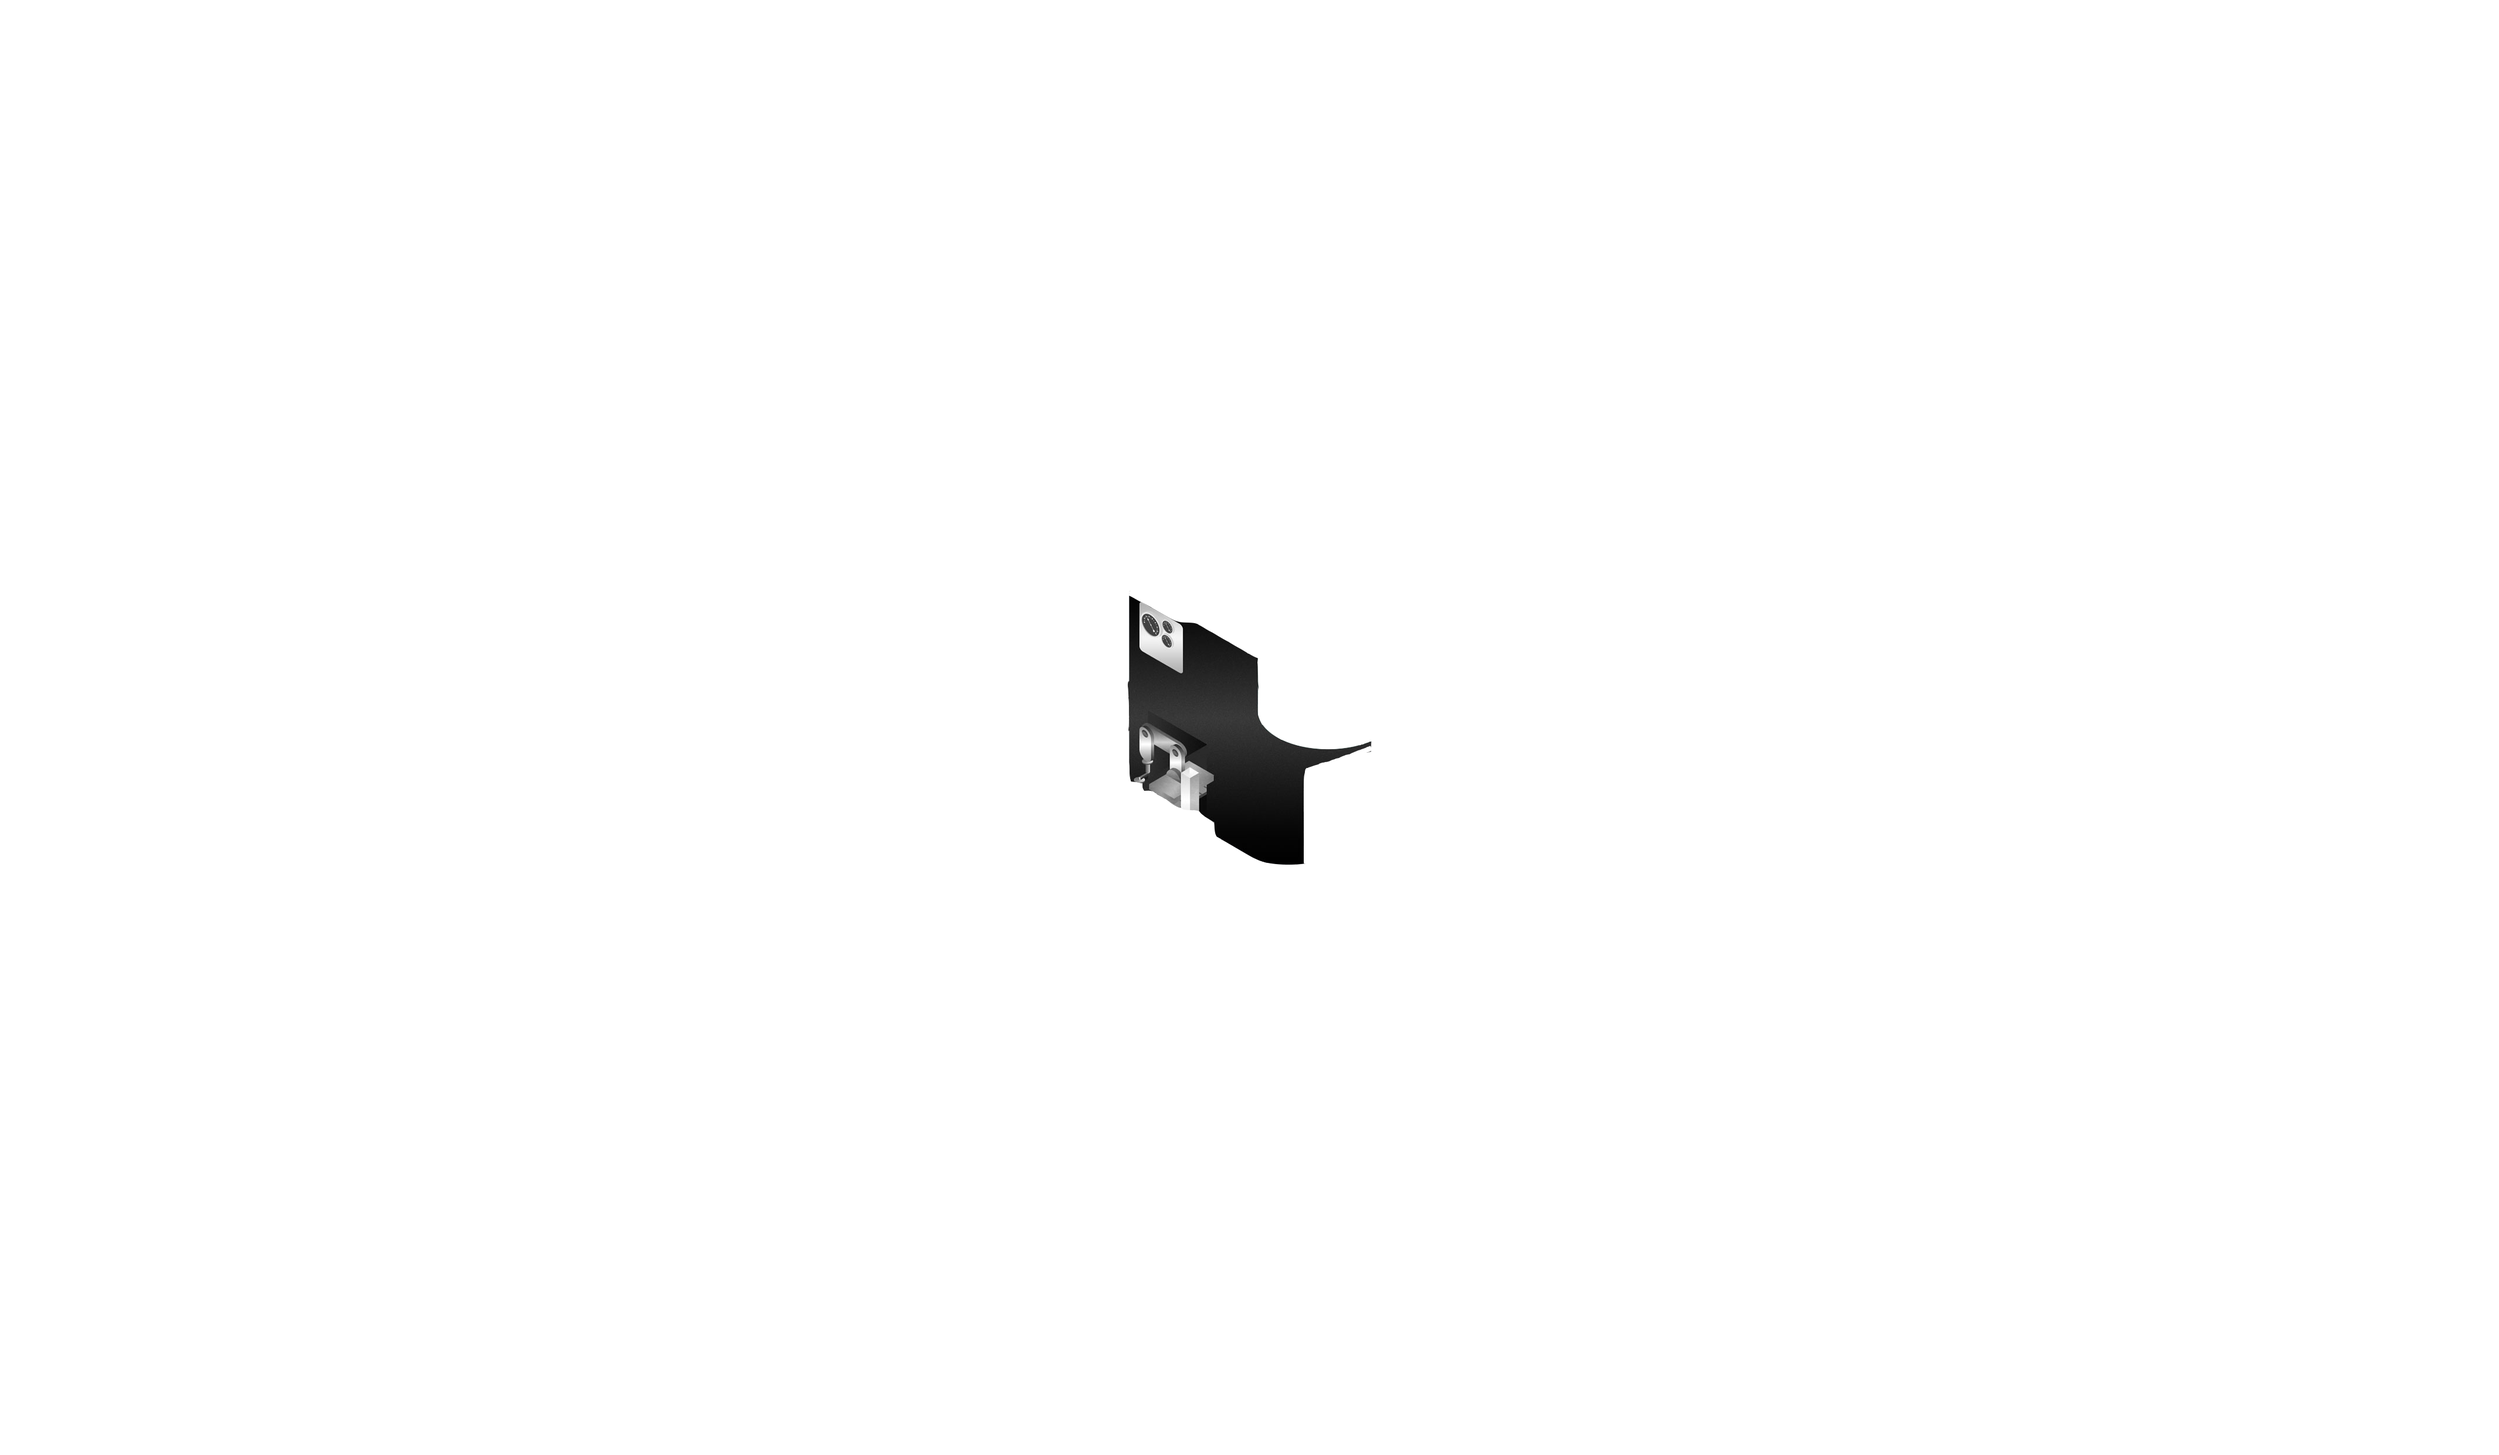
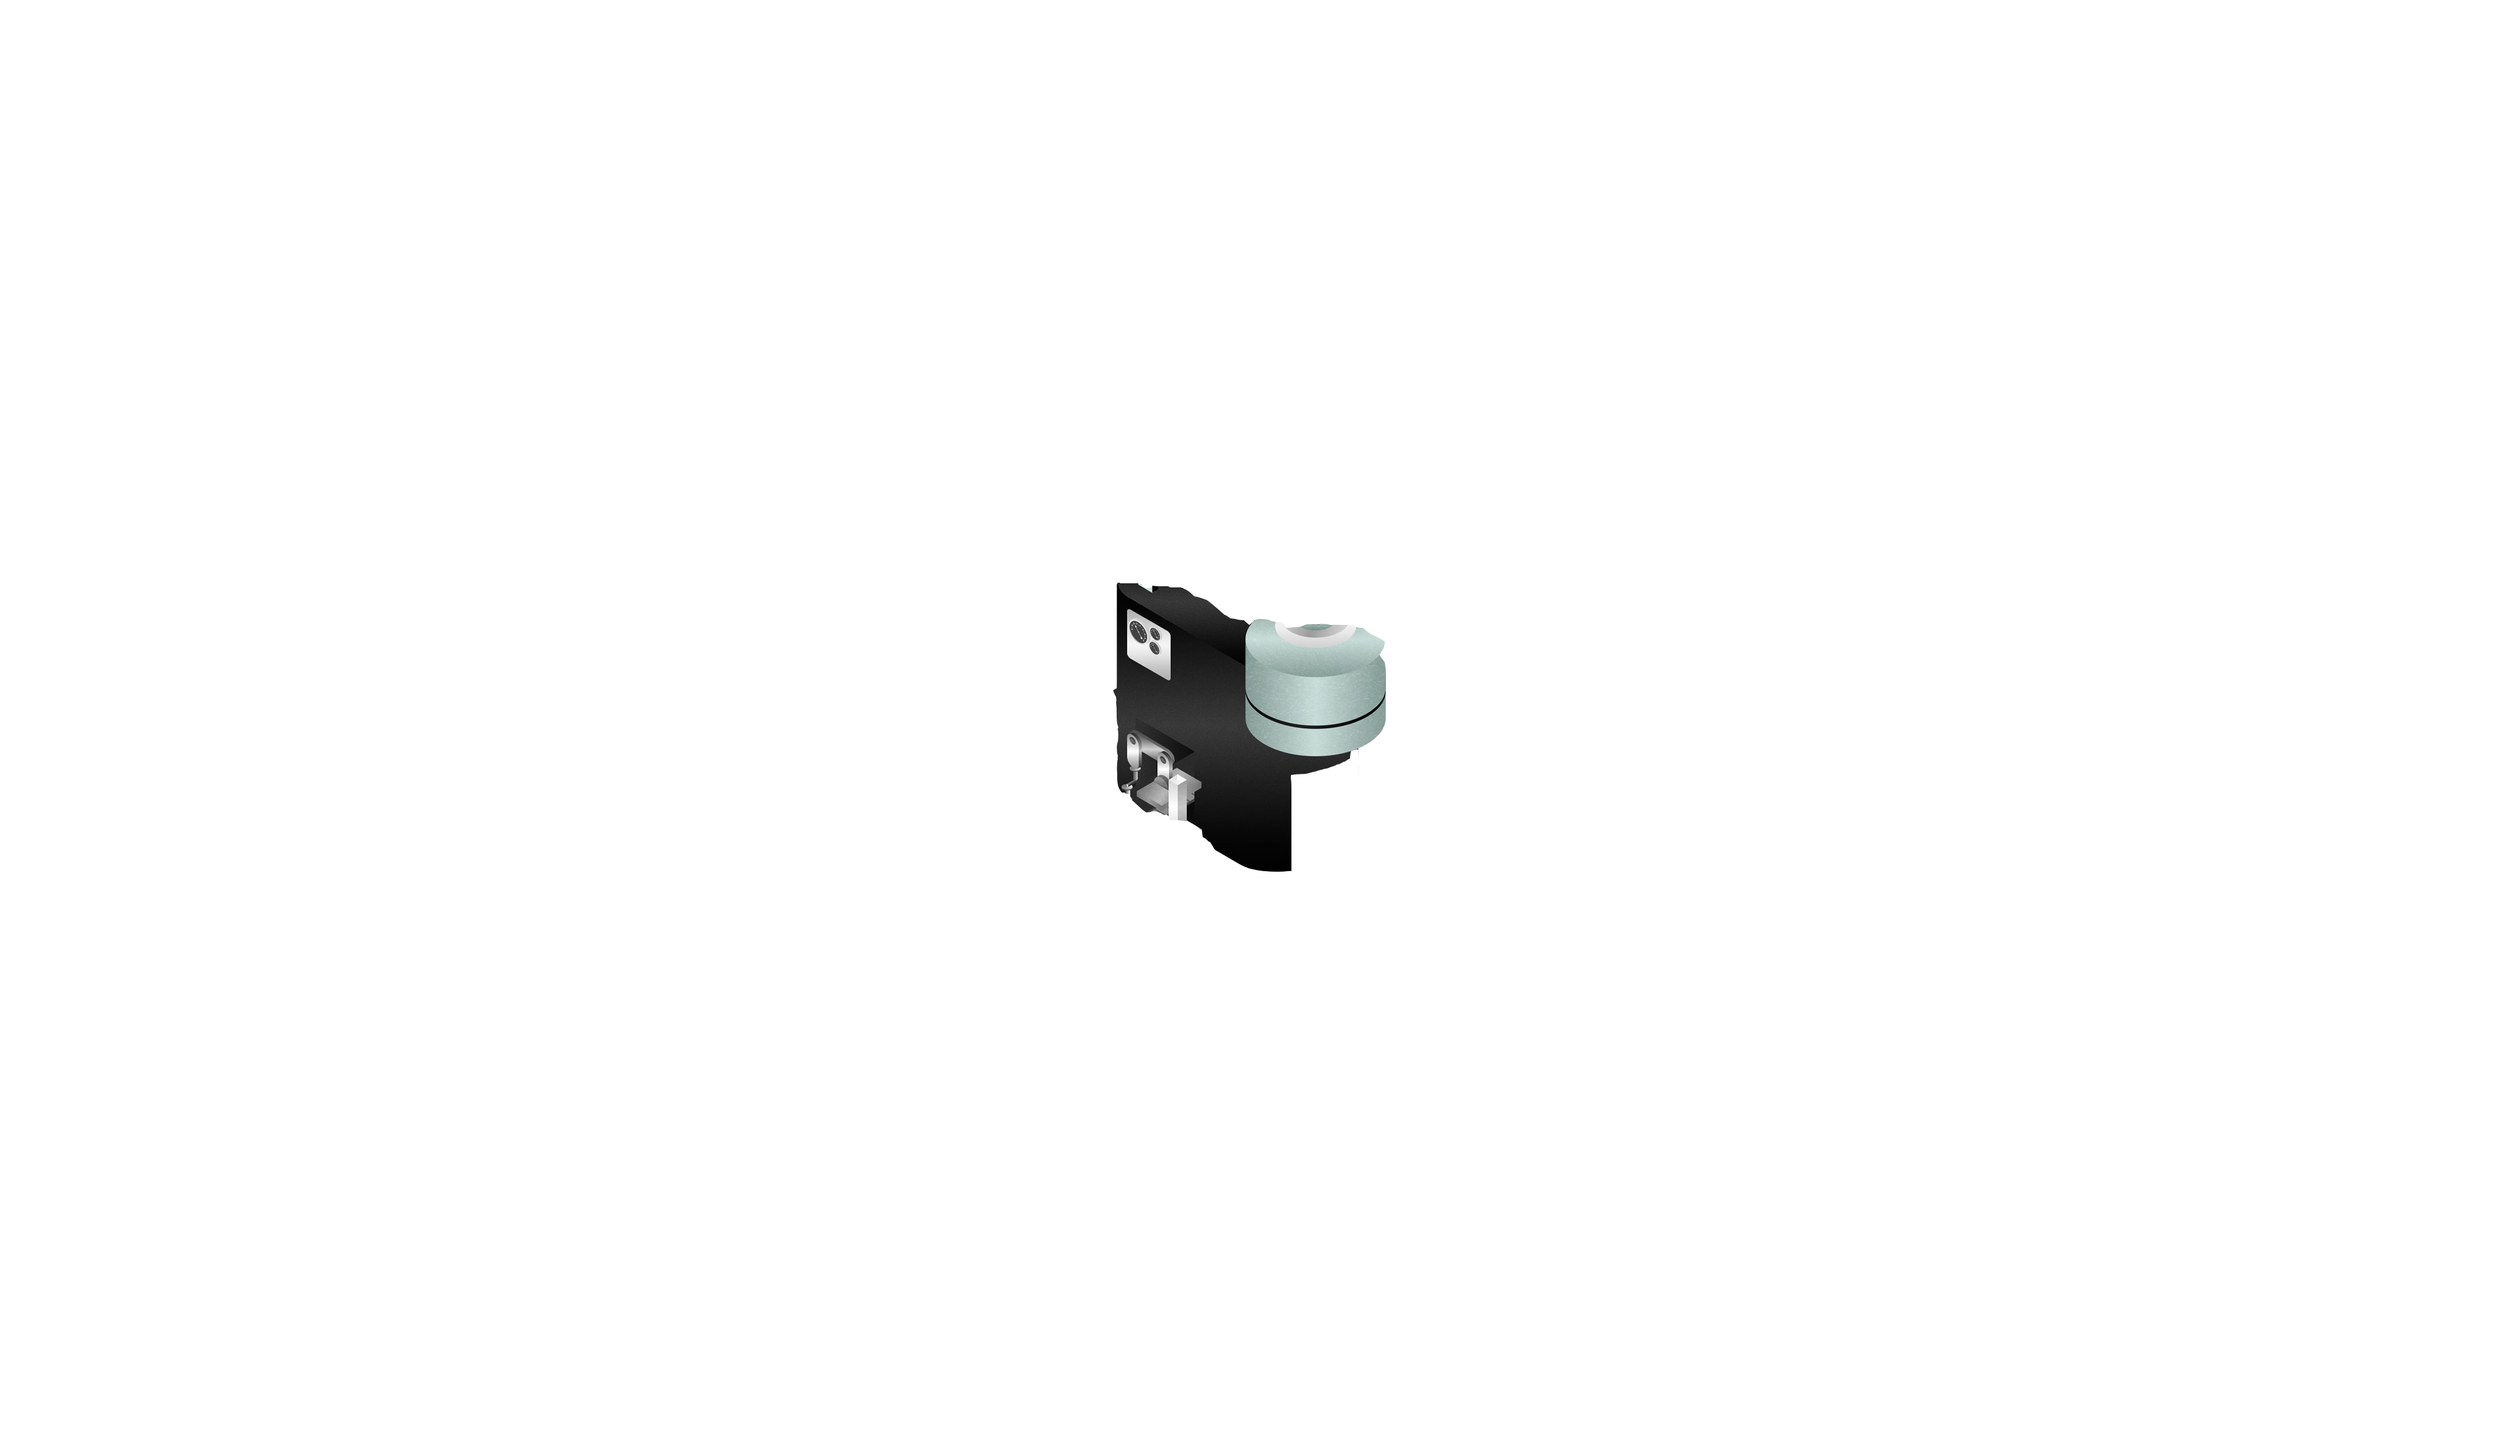
1209

Changed region(s): [[0.437, 0.4033, 0.5618, 0.6205]]

diff --git a/css/style.css b/css/style.css
@@ -153,8 +153,8 @@ body, html {margin: 0; padding: 0; overflow: hidden;}
     height: 494px;
     position: absolute;
     background-position: center;
-    left: 722px;
-    top: 381px;
+    left: 743px;
+    top: 368px;
     z-index: 50;
 }
 .belt5{
@@ -177,21 +177,51 @@ body, html {margin: 0; padding: 0; overflow: hidden;}
     top: 1699px;
     z-index: 50;
 }
-.redCap1 {
-    background-image: url(/image/cap1.png);
-    width: 150px;
-    height: 150px;
+.belt7 {
+    background-image: url(/image/belt7.png);
+    width: 934px;
+    height: 494px;
     position: absolute;
     background-position: center;
-    left: 290px;
-    top: 965px;
+    left: 1351px;
+    top: 1812px;
+    z-index: 50;
+}
+.belt8 {
+    background-image: url(/image/belt8.png);
+    width: 1000px;
+    height: 700px;
+    position: absolute;
+    background-position: center;
+    left: 583px;
+    top: 1072px;
+    z-index: 50;
+}
+.belt9 {
+    background-image: url(/image/belt9.png);
+    width: 1000px;
+    height: 700px;
+    position: absolute;
+    background-position: center;
+    left: 583px;
+    top: 1072px;
+    z-index: 50;
+}
+.redCap1 {
+    background-image: url(/image/cap12.png);
+    width: 368px;
+    height: 249px;
+    position: absolute;
+    background-position: center;
+    left: 24px;
+    top: 821px;
     animation: front 4s forwards infinite ;
 }
 
 @keyframes front {
     100% {
-        left: 650px;
-        top: 1175px; 
+        left: 860px;
+        top: 1312px;
 
     }
 }
@@ -215,20 +245,20 @@ body, html {margin: 0; padding: 0; overflow: hidden;}
 } */
 
 .whiteCap1 {
-    background-image: url(/image/cap2.png);
-    width: 118px;
-    height: 160px;
+    background-image: url(/image/cap13.png);
+    width: 385px;
+    height: 213px;
     position: absolute;
     background-position: center;
-    left: 1054px;
-    top: 604px;
+    left: 748px;
+    top: 527px;
     animation: front2 4s forwards infinite ;
 }
 
 @keyframes front2 {
     100% {
-        left: 1306px;
-        top: 754px;
+        left: 1348px;
+        top: 892px;
     }
 }
 .men{
@@ -362,11 +392,30 @@ body, html {margin: 0; padding: 0; overflow: hidden;}
     top: 1961px;
     animation: front8 4s forwards infinite;
 }
-
 @keyframes front8 {
     100% {left: 586px;
         top: 1844px;}
 }
+
+.cap11 {
+    background-image: url(/image/cap11.png);
+    width: 163px;
+    height: 234px;
+    position: absolute;
+    background-position: center;
+    left: 538px;
+    top: 1784px;
+    animation: front9 6s ease infinite;
+}
+@keyframes front9 {
+    50% {       left: 1200px;
+        top: 2143px;}
+
+    100%{       left: 1522px;
+        top: 1962px;
+    }
+}
+
 
 .main{
     background-image: url(/image/main.png);

diff --git a/index.html b/index.html
@@ -24,6 +24,9 @@
             <div class="belt4"></div>
             <div class="belt5"></div>
             <div class="belt6"></div>
+            <div class="belt7"></div>
+            <div class="belt8"></div>
+            <div class="belt9"></div>
             <div class="redCap1"></div>
             <div class="redCap2"></div>
             <div class="whiteCap1"></div>
@@ -35,6 +38,7 @@
             <div class="topCapTap"></div>
             <div class="bottomCapTap"></div>
             <div class="cap10"></div>
+            <div class="cap11"></div>
             <div class="redCir"></div>
             <div class="pinkCir"></div>
             <div class="blueCir"></div>
